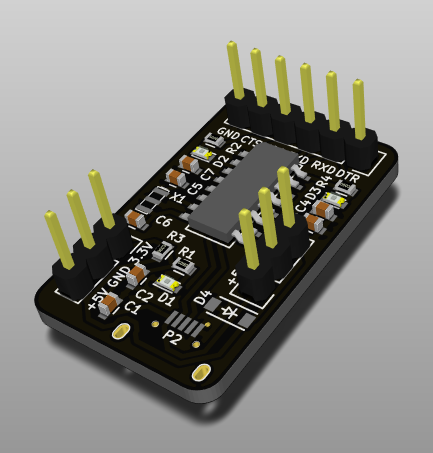
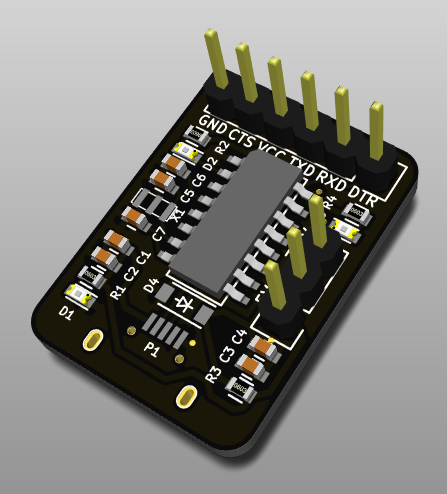
更新README，并更新截图

Changed region(s): [[0.06, 0.0618, 0.9607, 0.9581]]

diff --git a/README.md b/README.md
@@ -6,7 +6,7 @@
 
 1. 通用的usb转uart功能
 2. 为Arduino下载程序
-3. 自由选择3.3V或5V供电，并可输出。
+3. 自由选择3.3V或5V供电和信号电平模式。
 4. 电源LED指示、TX和RX的LED指示
 
 #### 原理图
